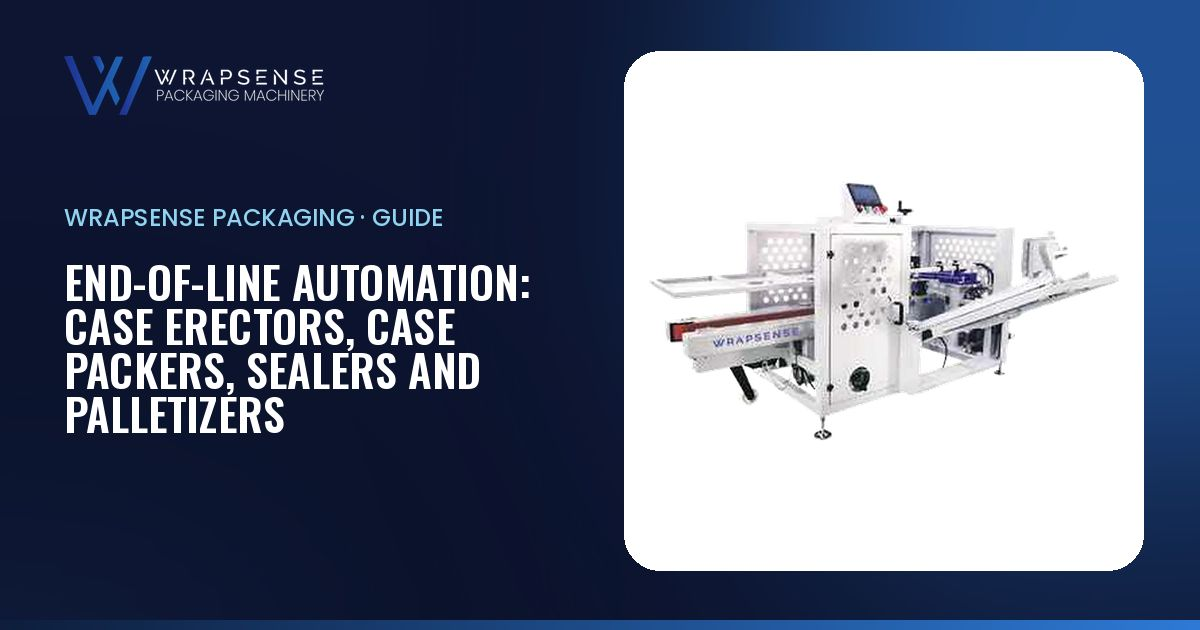
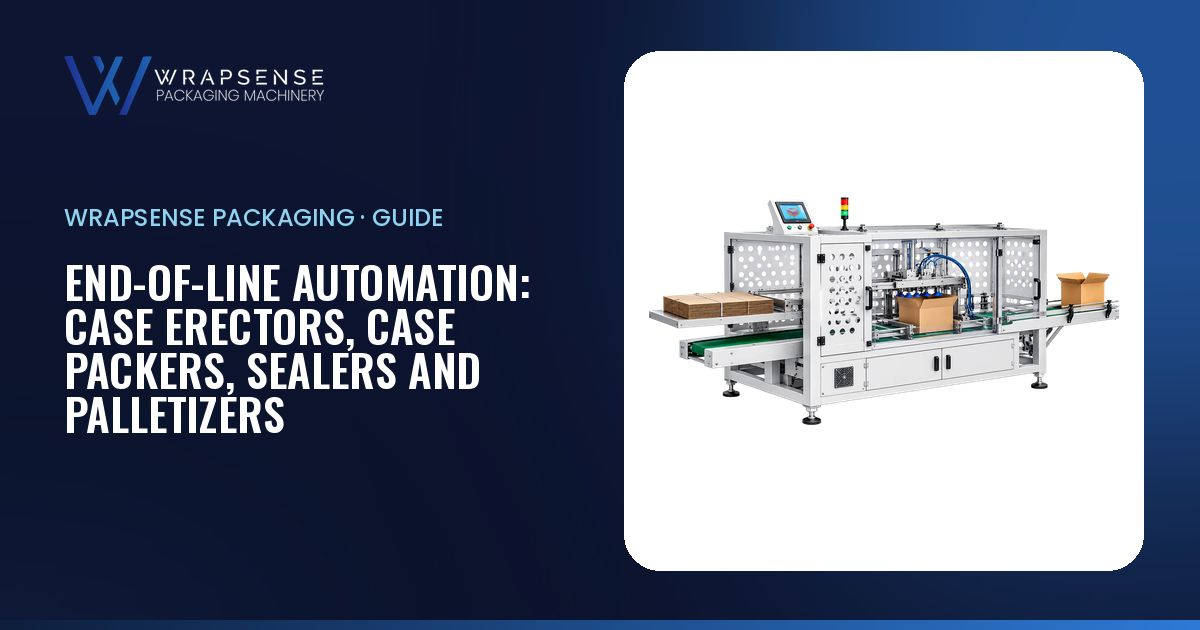
CaseMaster & PickN'Pack: use new renders for category images; remove soft line photos
- Case erectors category (home showcase + category page): CaseMaster Velocity Prime render
- Case packing category: PickN'Pack CasePacker 3 render
- End-of-line blog cover: Velocity Ultra render
- Dropped the blurry casemaster-line / pickn-pack-line photos from the Velocity and
  CasePacker 3 galleries; now unused, so deleted (manifest + extraction script updated)

Claude-Session: https://claude.ai/code/session_01QFn2KCFGMPNr5c9DCf1rvZ

Changed region(s): [[0.5242, 0.2714, 0.9558, 0.6937]]

diff --git a/tools/extract-catalog-images.py b/tools/extract-catalog-images.py
@@ -19,12 +19,10 @@ MAP = {
   139:('products','sensiweigh-linear','cut'), 141:('products','exactdose-auger','cut'),
   153:('products','triservo-23000-3sp','cut'), 151:('products','triservo-33000-3sp','cut'),
   161:('products','triservo-63000-3sp','cut'), 163:('products','triservo-inverted-63000-i3sp','cut'),
-  165:('products','triservo-inverted-33000-i3sp','cut'),
-  171:('products','casemaster-line','cut'), 173:('products','casemaster-velocity-prime','cut'),
+  165:('products','triservo-inverted-33000-i3sp','cut'), 173:('products','casemaster-velocity-prime','cut'),
   175:('products','casemaster-velocity-ultra','cut'), 177:('products','casemaster-velocity-turbo','cut'),
   179:('products','casemaster-fastseal','cut'), 167:('products','casemaster-palletstakr','cut'),
   191:('products','pickn-pack-casepacker-3','cut'), 203:('products','pickn-pack-casepacker-2','cut'),
-  187:('products','pickn-pack-line','cut'),
   214:('products','cartomate-h','cut'), 216:('products','cartomate-v','cut'),
   238:('products','labelease-cl2','cut'), 240:('products','labelease-combo-fbcl','cut'), 234:('products','labelease-tbl','cut'),
   248:('products','capvantage-sdl-2','cut'), 244:('products','oxygen-sachet-inserter','cut'),
